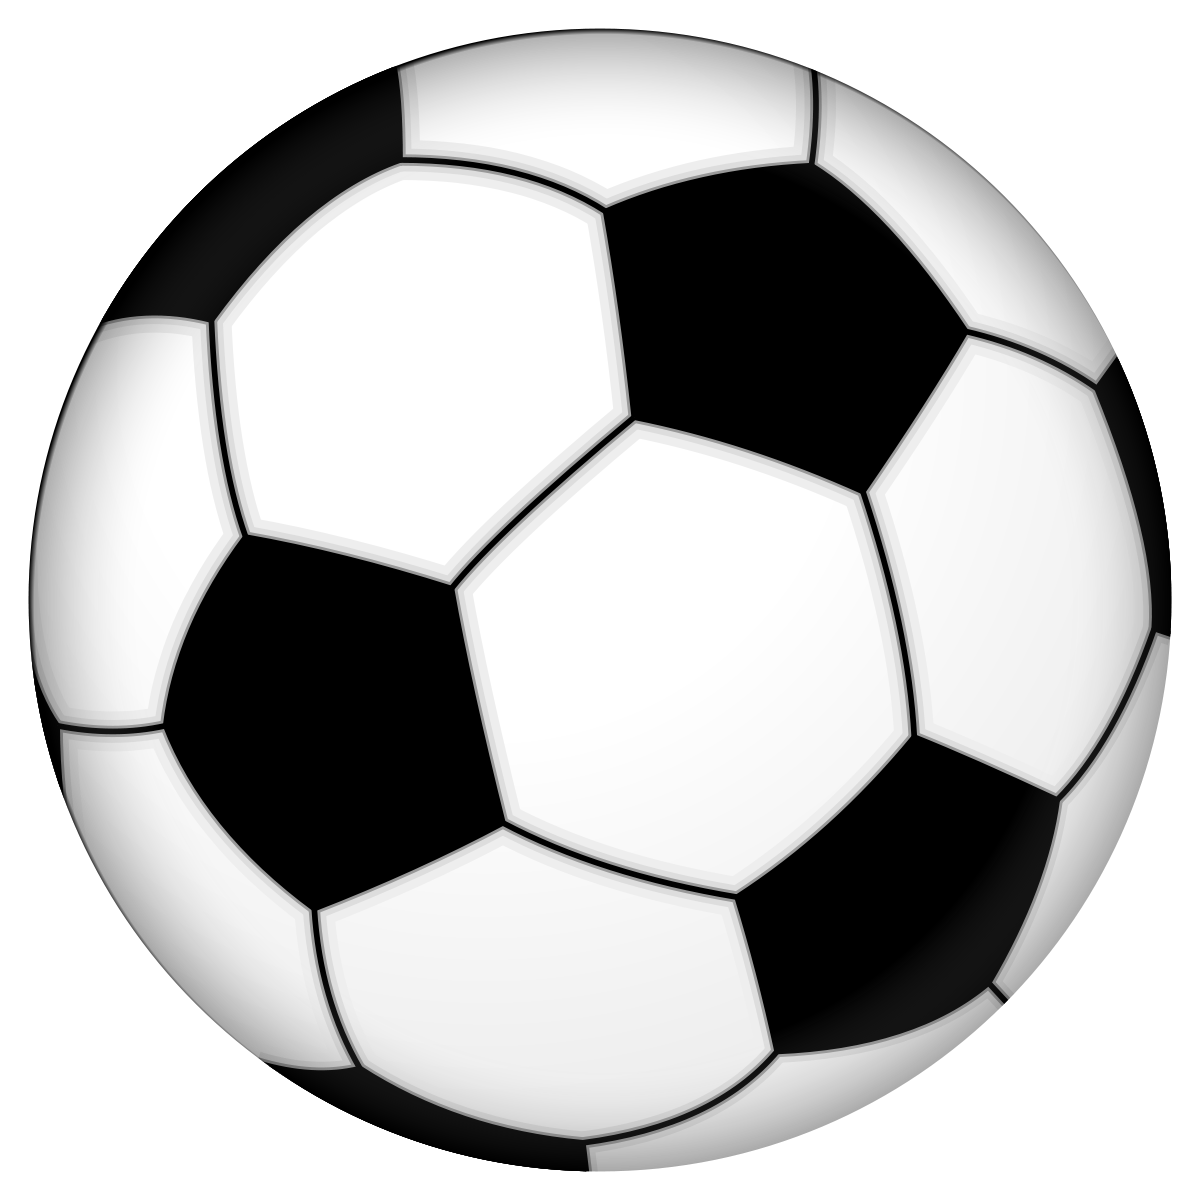
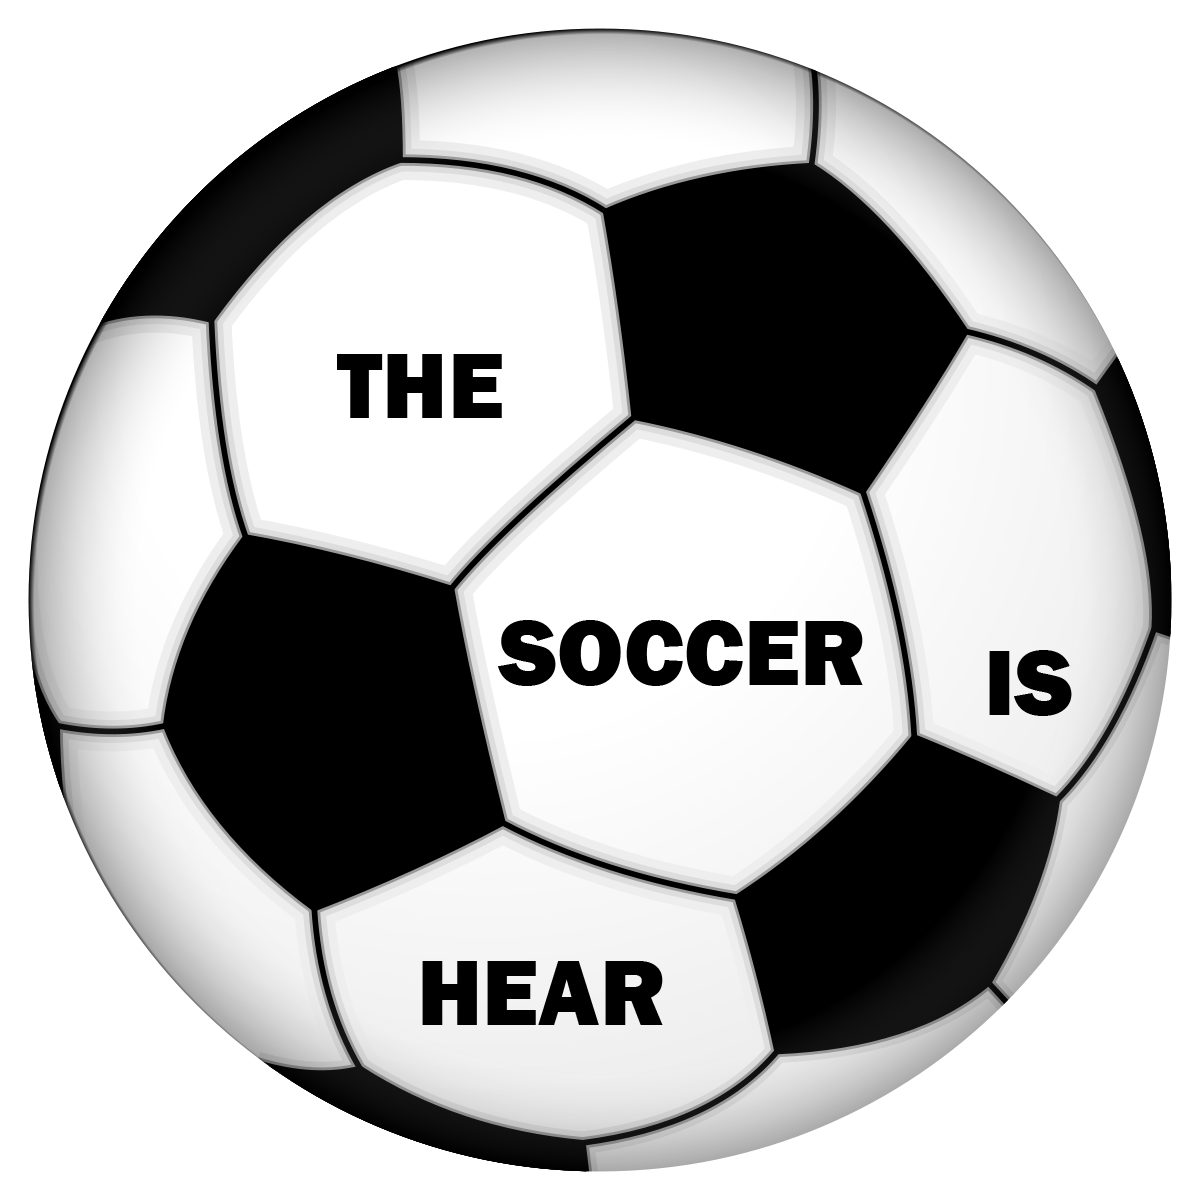
updating soccer history

diff --git a/html/history.html b/html/history.html
@@ -4,18 +4,13 @@
 <head>
     <meta charset="UTF-8">
     <meta name="viewport" content="width=device-width, initial-scale=1.0">
-    <link rel="icon" href="img/soccerball.png">
+    <link rel="icon" href="../img/soccerball.png">
     <link rel="stylesheet" href="../css/styles.css">
-    <!-- <link rel="stylesheet" href="../css/history.css"> -->
-    <link rel="stylesheet" href="../css/styles.css">
-    <title>Soccer is here</title>
-    <script src="sounds.js" type="text/javascript"></script>
+    <link rel="stylesheet" href="../css/history.css">
+    <title>The soccer is here</title>
 </head>
 
 <body>
-    <audio autoplay="autoplay">
-        <source src="css/audio/soccerballkicksound.wav" />
-    </audio>
     <!-- Header -->
     <header class="main-header">
         <div class="header-img">
@@ -62,71 +57,173 @@
     <!-- ==================================== -->
 
     <main class="main">
-        <div id="football">
+        <div id="history">
             <h2>Soccer history</h2>
             <p>
-                <strong>Association football</strong>, more commonly known as simply football or soccer (a shortening
-                of the word "association"), is a team sport played with a spherical ball between two teams of 11
-                players. It is
-                played by approximately 250 million players in over 200 countries and dependencies, making it the
-                world's most popular sport. The game is played on a rectangular field called a pitch with a goal at each
-                end. The object of the game is to outscore the opposition by moving the ball beyond the goal line into
-                the opposing goal. The team with the higher number of goals wins the game.
+                Football (or soccer as the game is called in some parts of the world) has a long history. Football in
+                its current form arose in England in the middle of the 19th century. But alternative versions of the
+                game existed much earlier and are a part of the football history.
             </p>
-            <img src="../img/penaltimadrid.jpg" alt="Soccer game" class="association">
+            <h3 class="subtitle">Early history of soccer</h3>
             <p>
-                Football is played in accordance with a set of rules known as the Laws of the Game. The ball is 68–70 cm
-                (27–28 in) in circumference and known as the football. The two teams each compete to get the ball into
-                the other team's goal (between the posts and under the bar), thereby scoring a goal. Players are not
-                allowed to touch the ball with hands or arms while it is in play, except for the goalkeepers within the
-                penalty area. Other players mainly use their feet to strike or pass the ball, but may also use any other
-                part of their body except the hands and the arms. The team that has scored more goals at the end of the
-                game is the winner; if both teams have scored an equal number of goals either a draw is declared or the
-                game goes into extra time or a penalty shootout depending on the format of the competition. Each team is
-                led by a captain who has only one official responsibility as mandated by the Laws of the Game: to
-                represent their team in the coin toss prior to kick-off or penalty kicks.
+                The first known examples of a team game involving a ball, which was made out of a rock, occurred in old
+                Mesoamerican
+                cultures for over 3,000 years ago. It was by the Aztecs called Tchatali, although various versions of
+                the game were
+                spread over large regions. In some ritual occasions, the ball would symbolize the sun and the captain of
+                the losing team
+                would be sacrificed to the gods. A unique feature of the Mesoamerican ball game versions was a bouncing
+                ball made of
+                rubber – no other early culture had access to rubber.
             </p>
+           
             <p>
-                Football is governed internationally by the International Federation of Association Football (FIFA;
-                French: Fédération Internationale de Football Association), which organises World Cups for both men and
-                women every four years. The FIFA World Cup has taken place every four years since 1930 with the
-                exception of 1942 and 1946 tournaments, which were cancelled due to World War II. Approximately 190–200
-                national teams compete in qualifying tournaments within the scope of continental confederations for a
-                place in the finals. The finals tournament, which is held every four years, involves 32 national teams
-                competing over a four-week period. It is the most prestigious football tournament in the world as
-                well as the most widely viewed and followed sporting event in the world, exceeding the Olympic Games.
+                The first known ball game which also involved kicking took place In China in the 3rd and 2nd century BC
+                under the name cuju. Cuju was played with a round ball (stitched leather with fur or feathers inside) on
+                an area of a square. A modified form of this game later spread to Japan and was by the name of kemari
+                practiced under ceremonial forms.
             </p>
+            <img src="../img/history/maradona.jpg" alt="Soccer game" class="maradona">
             <p>
-                The most prestigious competition in club football is the UEFA Champions League which attracts an
-                extensive television audience throughout the world. The final of the tournament has been, in recent
-                years, the most-watched annual sporting event in the world.[6] The top five European leagues are the
-                Premier League (England), La Liga (Spain), Bundesliga (Germany), Serie A (Italy), and Ligue 1 (France).
-                Attracting most of the world's best players, each of the leagues has a total wage cost in excess of £600
-                million/€763 million/US$1.185 billion.
+                Perhaps even older cuju was Marn Gook, played by Aboriginal Australians and according to white emigrants
+                in the 1800s a ball game primarily involving kicking. The ball was made by encased leaves or roots. The
+                rules are mostly unknown, but as with many other early versions of the game keeping the ball in the air
+                was probably a chief feature.
             </p>
-            <img src="../img/association-football.jpg" alt="Fault" class="penalti">
+            
             <p>
-                Football is one of a family of football codes, which emerged from various ball games played worldwide
-                since antiquity. The modern game traces its origins to 1863 when the Laws of the Game were originally
-                codified in England by The Football Association.
+                Other variety of ball games had been known from Ancient Greece. The ball was made by shreds of leather
+                filled with hair (the first documents of balls filled with air are from the 7th century). Ball games
+                had, however, a low status and was not included at the Panhellenic Games. In the Ancient Rome, games
+                with balls were not included in the entertainment on the big arenas (amphitheaters), but occurred in
+                exercises in the military by the name of Harpastum. It was the Roman culture that would bring football
+                to the British island (Britannica). It is, however, uncertain in which degree the British people were
+                influenced by this variety and in which degree they had developed their own variants.
             </p>
+            <h3 class="subtitle">The game of football takes its form</h3>
             <p>
-                The rules of association football were codified in England by FA in 1863 and the name association
-                football was coined to distinguish the game from the other forms of football played at the time,
-                specifically rugby football. The first written "reference to the inflated ball used in the game" was in
-                the mid-14th century: "Þe heued fro þe body went, Als it were a foteballe". The Online Etymology
-                Dictionary states that the "rules of the game" were made in 1848, before the "split off in 1863". The
-                term soccer comes from a slang or jocular abbreviation of the word "association", with the suffix "-er"
-                appended to it. The word soccer (which arrived at its final form in 1895) was first recorded in 1889
-                in the earlier form of socca.
+                The most admitted story tells that the game was developed in England in the 12th century. In this
+                century, games that resembled football were played on meadows and roads in England. Besides from kicks,
+                the game involved also punches of the ball with the fist. This early form of football was also much more
+                rough and violent than the modern way of playing.
             </p>
             <p>
-                Within the English-speaking world, association football is now usually called "football" in the United
-                Kingdom and mainly "soccer" in Canada and the United States. People in countries where other codes of
-                football are prevalent (Australia, Ireland, Wales, South Africa and New Zealand) may use either term,
-                although national associations in Australia and New Zealand now primarily use "football" for the formal
-                name.
+                An important feature of the forerunners to football was that the games involved plenty of people and
+                took place over large areas in towns (an equivalent was played in Florence from the 16th century where
+                it was called Calcio). The rampage of these games would cause damage on the town and sometimes death to
+                the participants. These would be among the reasons for the proclamations against the game that finally
+                was forbidden for several centuries. But the football-like games would return to the streets of London
+                in the 17th century. It would be forbidden again in 1835, but at this stage the game had been
+                established in the public schools.
             </p>
+            <p>
+                It took, however, long time until the features of today’s football had been taken into practice. For a
+                long time there was no clear distinction between football and rugby. There were also many variations
+                concerning the size of the ball, the number of players and the length of a match.
+            </p>
+            <p>
+                The game was often played in schools and two of the predominant schools were Rugby and Eton. At Rugby the
+                rules included the possibility to take up the ball with the hands and the game we today know as rugby has
+                its origin from here. At Eton on the other hand the ball was played exclusively with the feet and this game
+                can be seen as a close predecessor to the modern football. The game in Rugby was called “the running game”
+                while the game in Eton was called “the dribbling game”.
+            </p>
+            <p>
+                An attempt to create proper rules for the game was done at a meeting in Cambridge in 1848, but a final
+                solution to all questions of rules was not achieved. Another important event in the history of football
+                came about in 1863 in London when the first Football association was formed in England. It was decided
+                that carrying the ball with the hands wasn't allowed. The meeting also resulted in a standardization of
+                the size and weight of the ball. A consequence of the London meeting was that the game was divided into
+                two codes: association football and rugby.
+            </p>
+            <p>
+                The game would, however, continue to develop for a long time and there was still much flexibility
+                concerning the rules. For one thing, the number of players on the pitch could vary. Neither were
+                uniforms used to distinguish the appearance of the teams. It was also common with players wearing caps –
+                the header was yet to be a part of the game yet.
+            </p>
+
+            <p>
+                Another important difference at this stage could be noticed between English and Scottish teams. Whereas
+                the English teams preferred to run forward with the ball in a more rugby fashion, the Scottish chose to
+                pass the ball between their players. It would be the Scottish approach that soon became predominant.
+            </p>
+            <p>
+                The sport was at first an entertainment for the British working class. Unprecedented amounts of
+                spectators, up to 30,000, would see the big matches in the late 19th century. The game would soon expand
+                by British peoples who traveled to other parts of the world. Especially in South America and India would
+                the interest in football become big.
+            </p>
+            <h3 class="subtitle">The first football clubs</h3>
+            <p>
+                Football clubs have existed since the 15th century, but unorganized and without official status. It is
+                therefore hard to decide which the first football club was. Some historians suggest that it was the
+                Foot-Ball Club formed 1824 in Edinburgh. Early clubs were often formed by former school students and the
+                first of this kind was formed in Sheffield in 1855. The oldest among professional football clubs is the
+                English club Notts County that was formed in 1862 and still exists today.
+            </p>
+            <p>
+                An important step for the emergence of teams was the industrialization that led to larger groups of
+                people meeting at places such as factories, pubs and churches. Football teams were established in the
+                larger cities and the new railroads could bring them to other cities.
+            </p>
+            <p>
+                In the beginning, football was dominated by public school teams, but later, teams consisting by workers
+                would make up the majority. Another change was successively taking place when some clubs became willing
+                to pay the best players to join their team. This would be the start of a long period of transition, not
+                without friction, in which the game would develop to a professional level.
+            </p>
+            <p>
+                The motivation behind paying players was not only to win more matches. In the 1880s the interest in the
+                game has moved ahead to a level that tickets were sold to the matches. And finally, in 1885 professional
+                football was legalized and three years later the Football League was established. During the first
+                season, 12 clubs joined the league, but soon more clubs became interested and the competition would
+                consequently expand into more divisions.
+            </p>
+            <p>
+                For a long time, the British teams would be dominant. After some decades, clubs from Prague, Budapest
+                and Sienna would be the primarily contenders to the British dominance.
+            </p>
+            <p>
+                As with many things in history, women were for a long time excluded from participating in games. It was
+                not before the late 19th century that women started to play football. The first official women's game
+                took place in Inverness in 1888.
+            </p>
+            <h3 class="subtitle">The first competitions</h3>
+            <img src="../img/history/first-competition.jpg" alt="first competition" class="first-competition">
+            <p>
+                Other milestones were now to follow. Football Association Challenge Cup (FA Cup) became the first
+                important competition when it was run in 1871. The following year a match between two national teams was
+                played for the first time. The match that involved England and Scotland ended 0-0 and was followed by
+                4,000 people at Hamilton Crescent (the picture shows illustrations from this occasion).
+            </p>
+            <p>
+                Twelve years later, in 1883, the first international tournament took place and included four national
+                teams: England, Ireland, Scotland and Wales.
+            </p>
+            <p>
+                Football was for a long time a British phenomenon, but it gradually spread to other European countries.
+                The first game that took place outside Europe occurred in Argentina in 1867, but it was foreign British
+                workers who were involved and not Argentinean citizens.
+            </p>
+            <p>
+                The Fédération Internationale de Football Association (FIFA) was founded in 1904 and a foundation act
+                was signed by representatives from France, Belgium, Denmark, the Netherlands, Spain, Sweden and
+                Switzerland. England and the other British countries did not join FIFA from the start, they had invented
+                the game and saw no reason to subordinate to an association. Still, they joined in the following year,
+                but would not partake in the World Cup until 1950.
+            </p>
+            <p>
+                Domestic leagues occurred in many countries. The first was, as already mentioned, the English Football
+                League which was established in 1888. The leagues would by time expand by more divisions, which were
+                based on team performance.
+            </p>
+            <p>
+                In 1908 would football for the first time be included as an official sport in the Olympic Games. Until
+                the first FIFA World Cup was played in 1930, the Olympic Games football tournament would rank as the
+                most prestigious on a national level. Women's football was not added until 1996.
+            </p>
+
         </div>
 
     </main>
@@ -194,12 +291,12 @@
             </div>
         </div>
     </footer>
-    
+
     <div class="copyline">
         <p class="footerline1"><a href="#">Contact</a> | <a href="#">About us</a> </p>
         <p class="footerline2">Soccer is here &copy;Copyright 2021</p>
     </div>
-    
+
 </body>
 
 </html>

diff --git a/index.html b/index.html
@@ -8,7 +8,7 @@
     <link rel="stylesheet" href="css/styles.css">
     <link rel="stylesheet" href="css/index.css">
     <link rel="stylesheet" href="css/animations.css">
-    <title>Soccer is here</title>
+    <title>The soccer is here</title>
     <script src="sounds.js" type="text/javascript"></script>
 </head>
 
@@ -43,16 +43,13 @@
                 <a href="html/history.html">Soccer history</a>
             </li>
             <li>
-                <a href="#">Leagues around the world</a>
+                <a href="#">Best leagues around the world</a>
             </li>
             <li>
-                <a href="html/stadiums.html">Soccer stadiums</a>
+                <a href="html/stadiums.html">Best soccer stadiums</a>
             </li>
             <li>
                 <a href="#">Best soccer players today</a>
-            </li>
-            <li>
-                <a href="#">Soccer in the United Sates</a>
             </li>
         </ul>
     </nav>
@@ -154,6 +151,7 @@
                         <a href="#">Best soccer players today</a>
                     </li>
                 </ul>
+                
             </nav>
         </div>
 

diff --git a/css/history.css b/css/history.css
@@ -1,0 +1,50 @@
+.main{
+    width: 98%;
+    margin: 0 auto;
+}
+
+.main p{
+    text-align:justify;
+    margin-top: 10px;
+    font-family: Verdana, Geneva, Tahoma, sans-serif;
+    font-size: 15px;
+    line-height: 1.6;
+}
+.main h2{
+    margin: 20px 0 30px;
+    height: 60px;
+    text-align: center;
+    width: 100%;
+    background: #444444;
+    color: white;
+    line-height: 60px;
+    padding-left: 10px;
+    border-radius: 5px;
+    text-transform: uppercase;
+    box-shadow: 4px 4px 4px black;
+}
+.subtitle{
+    margin-top: 20px;
+    font-family: Verdana, Geneva, Tahoma, sans-serif;
+    height: 50px;
+    padding-left: 25px;
+    padding-right: 10px;
+    line-height: 50px;
+    box-shadow: 0px 2px 4px #615e5e;
+    background-color: #c7c0c0;
+    width: 420px;
+    border-radius: 50px 0px 50px 0px;
+}
+#history p{
+    margin-top: 15px;
+}
+.first-competition{
+    margin-top: 10px;
+    float: left;
+    margin-right: 10px;
+}
+.maradona{
+    margin-top: 10px;
+    float: right;
+    margin-left: 10px;
+}

diff --git a/css/styles.css b/css/styles.css
@@ -327,42 +327,4 @@ body{
 }
 
 /* HTMLs */
-.main{
-    width: 98%;
-    margin: 0 auto;
-}
 
-.main h2{
-    margin: 20px 0 30px;
-    height: 60px;
-    text-align: center;
-    width: 100%;
-    background: #444444;
-    color: white;
-    line-height: 60px;
-    padding-left: 10px;
-    border-radius: 5px;
-    text-transform: uppercase;
-    box-shadow: 4px 4px 4px black;
-}
-.main p{
-    text-align:justify;
-    margin-top: 10px;
-    font-family: Verdana, Geneva, Tahoma, sans-serif;
-    font-size: 15px;
-    line-height: 1.6;
-}
-#football p{
-    margin-top: 15px;
-}
-.main img{
-    margin-top: 10px;
-    float: left;
-    margin-right: 10px;
-}
-.association{
-    width: 35%;
-}
-.penalti{
-    width: 35%;
-}
